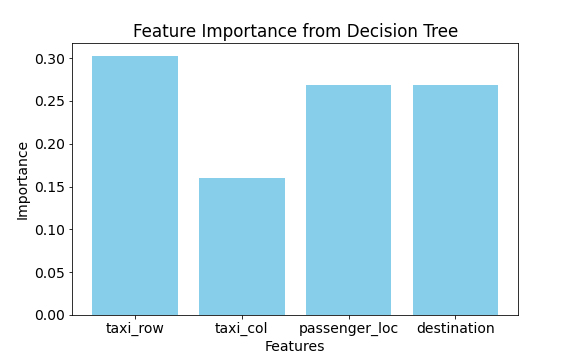
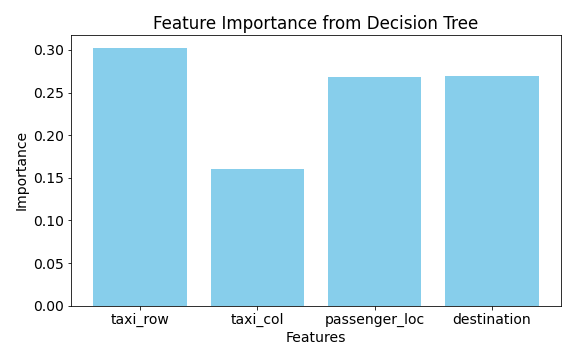
corrected plots with labels

diff --git a/taxi/taxi_env_intrepretability_plots.py b/taxi/taxi_env_intrepretability_plots.py
@@ -1,8 +1,6 @@
 import matplotlib
 matplotlib.use = lambda *args, **kwargs: None
 
-import numpy as np
-import matplotlib.pyplot as plt
 import seaborn as sns
 import shap
 from lime.lime_tabular import LimeTabularExplainer
@@ -120,6 +118,7 @@ class GetExplainabilityPlotsForEnv:
         plt.ylabel("Action")
         plt.title("Action Trajectory Over Time")
         plt.grid()
+        plt.tight_layout()
         plt.savefig("plots/episode_action_trajectory.png")
         plt.close()
 
@@ -135,6 +134,7 @@ class GetExplainabilityPlotsForEnv:
         plt.title("State Visit Heatmap")
         plt.xlabel("Taxi Column")
         plt.ylabel("Taxi Row")
+        plt.tight_layout()
         plt.savefig("plots/episode_statevisits_trajectory.png")
         plt.close()
 
@@ -147,6 +147,7 @@ class GetExplainabilityPlotsForEnv:
         plt.ylabel("Reward")
         plt.title("Reward Trajectory Over Time")
         plt.grid()
+        plt.tight_layout()
         plt.savefig("plots/episode_rewards_trajectory.png")
         plt.close()
 
@@ -170,6 +171,7 @@ class GetExplainabilityPlotsForEnv:
 
         plt.title("Policy Visualization")
         plt.axis('off')
+        plt.tight_layout()
         plt.savefig("plots/taxi_policy.png")
         plt.close()
 
@@ -183,6 +185,7 @@ class GetExplainabilityPlotsForEnv:
         plt.xlabel("Features")
         plt.ylabel("Importance")
         plt.title("Feature Importance from Decision Tree")
+        plt.tight_layout()
         plt.savefig("plots/feature_importance_decision_tree.png")
         plt.close()
 
@@ -341,21 +344,6 @@ class LimeExplainer:
 
         return explanations
 
-    def save_lime_explanations(self, explanations, state_to_explain):
-        """Save LIME explanations as images in the 'plots' folder."""
-        
-        for action in range(self.action_dim):
-            # Get the LIME explanation figure
-            fig = explanations[action].as_pyplot_figure()
-            
-            # Generate a filename using the state and action
-            filename = f"plots/lime_explanation_state_{state_to_explain}_action_{action}_{self.action_symbols[action]}.png"
-            
-            # Save the figure
-            fig.savefig(filename)
-            plt.close(fig)  # Close the figure after saving to free up memory
-            print(f"Saved explanation for action '{self.action_symbols[action]}' for state {state_to_explain} as {filename}")
-
     def print_lime_explanations(self, explanations):
         """Print the LIME explanations."""
         
@@ -393,7 +381,6 @@ def convert_q_table(agent):
 
 
 
-
 if __name__ == '__main__':
     
     env = gym.make("Taxi-v3")
@@ -427,7 +414,6 @@ if __name__ == '__main__':
 
     explanations = lime_explainer.generate_lime_explanations(state_to_explain=62)
 
-    lime_explainer.save_lime_explanations(explanations, state_to_explain=62)
     lime_explainer.print_lime_explanations(explanations)
 
 
